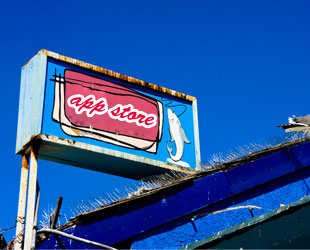
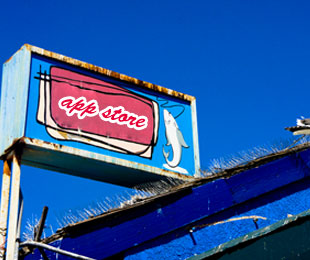
updated image heights

diff --git a/index.html b/index.html
@@ -66,7 +66,7 @@
           </div>
           <div class="section-divider"> <hr/> </div>
           <div class="section-pic">
-            <img class="lazy-load" width="300px" height="200px" data-src="images/specialshop.jpg" style="width:310px; height:200px;" alt="you are not special"/>
+            <img class="lazy-load" width="310px" height="230px" data-src="images/specialshop.jpg" alt="you are not special"/>
           </div>
           <div class="section-content">
             <h3>Everything you need is provided by Bigcommerce.</h3>
@@ -154,7 +154,7 @@
           </div>
           <div class="section-divider"> <hr/> </div>
           <div class="section-pic">
-            <img class="lazy-load" width="300px" height="200px" src="" data-src="images/beautiful.jpg" alt="Beautifully designed online shops"/>
+            <img class="lazy-load" width="310px" height="250px" src="" data-src="images/beautiful.jpg" alt="Beautifully designed online shops"/>
           </div>
           <div class="section-content">
             <h3>Use Bigcommerce's free themes for a beautiful shop front.</h3>
@@ -201,7 +201,7 @@
             </p>
           </div>
           <div class="section-rpic">
-            <img class="lazy-load" width="310px" height="250px" src="" data-src="images/appstore.jpg" alt="Bigcommerce app store"/>
+            <img class="lazy-load" width="310px" height="270px" src="" data-src="images/appstore.jpg" alt="Bigcommerce app store"/>
           </div>
           <div class="section-divider"> <hr/> </div>
           <div class="section-pic">
